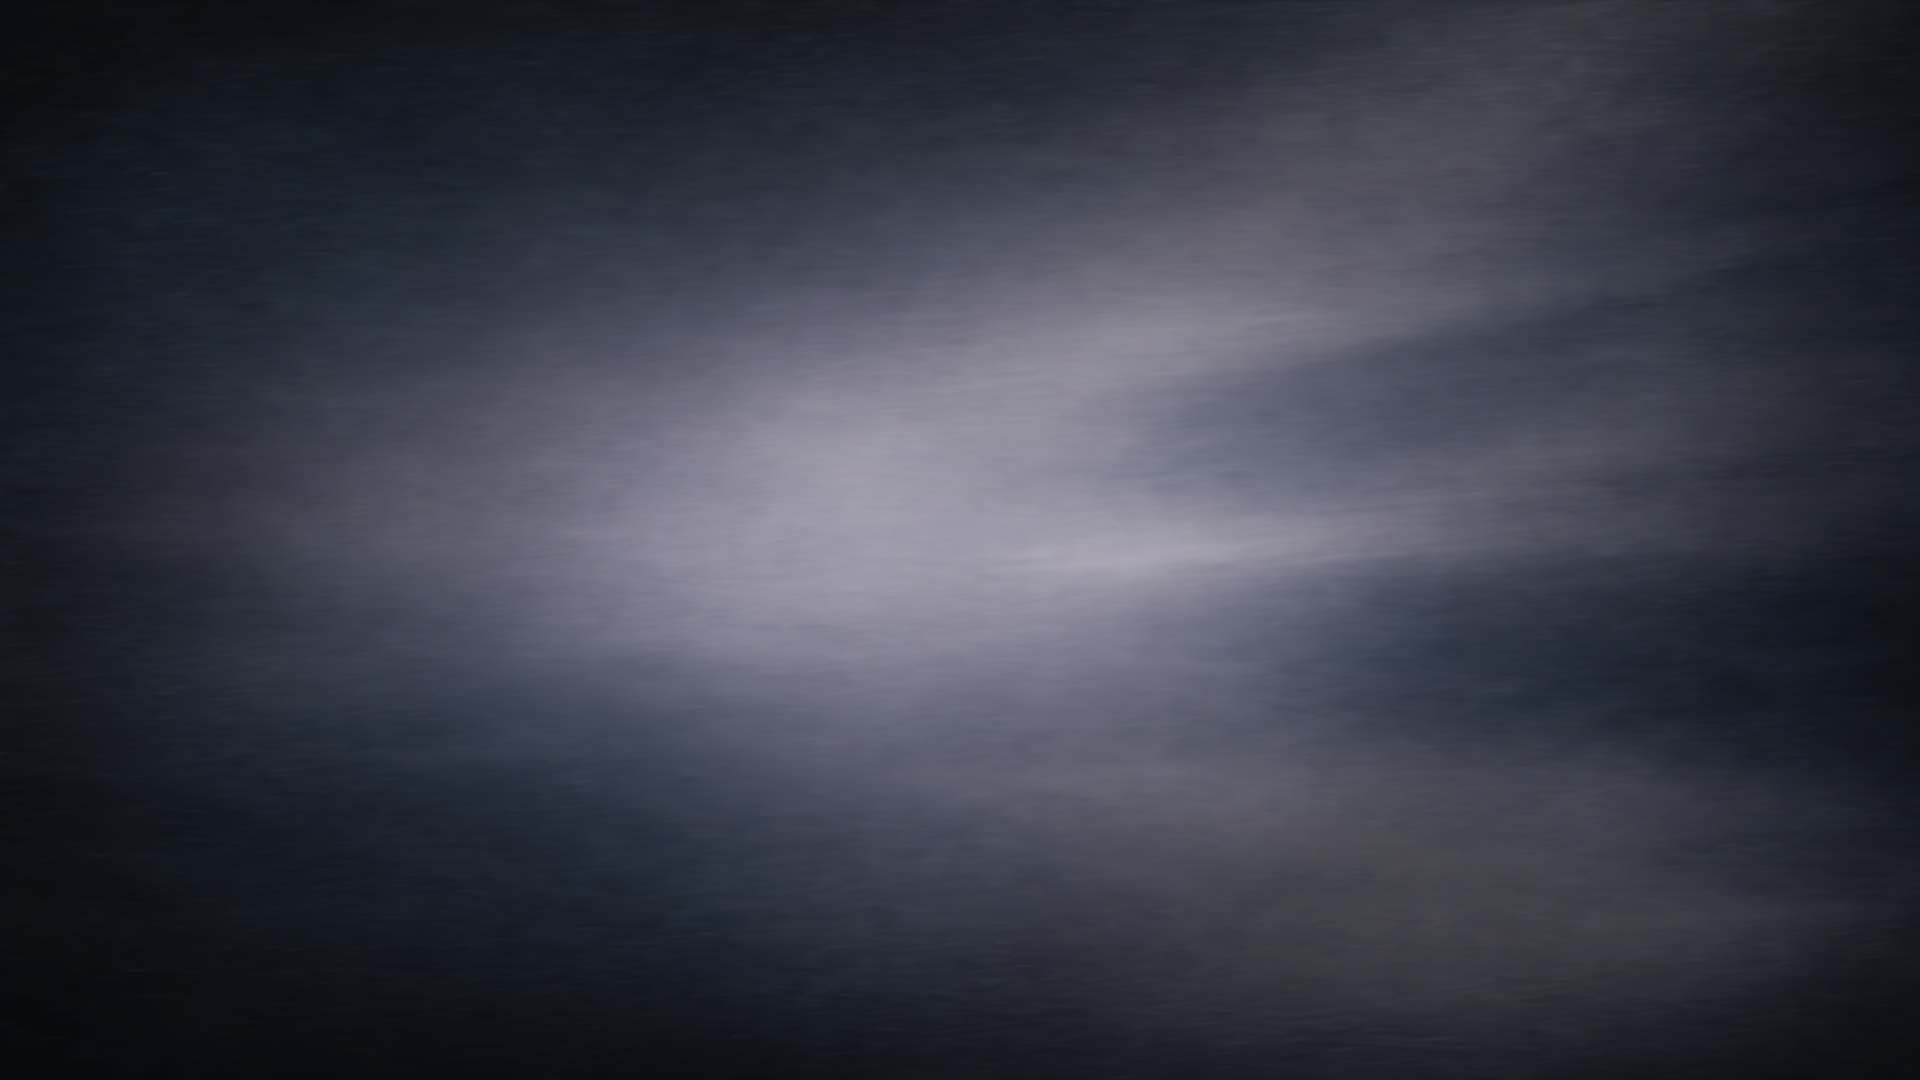
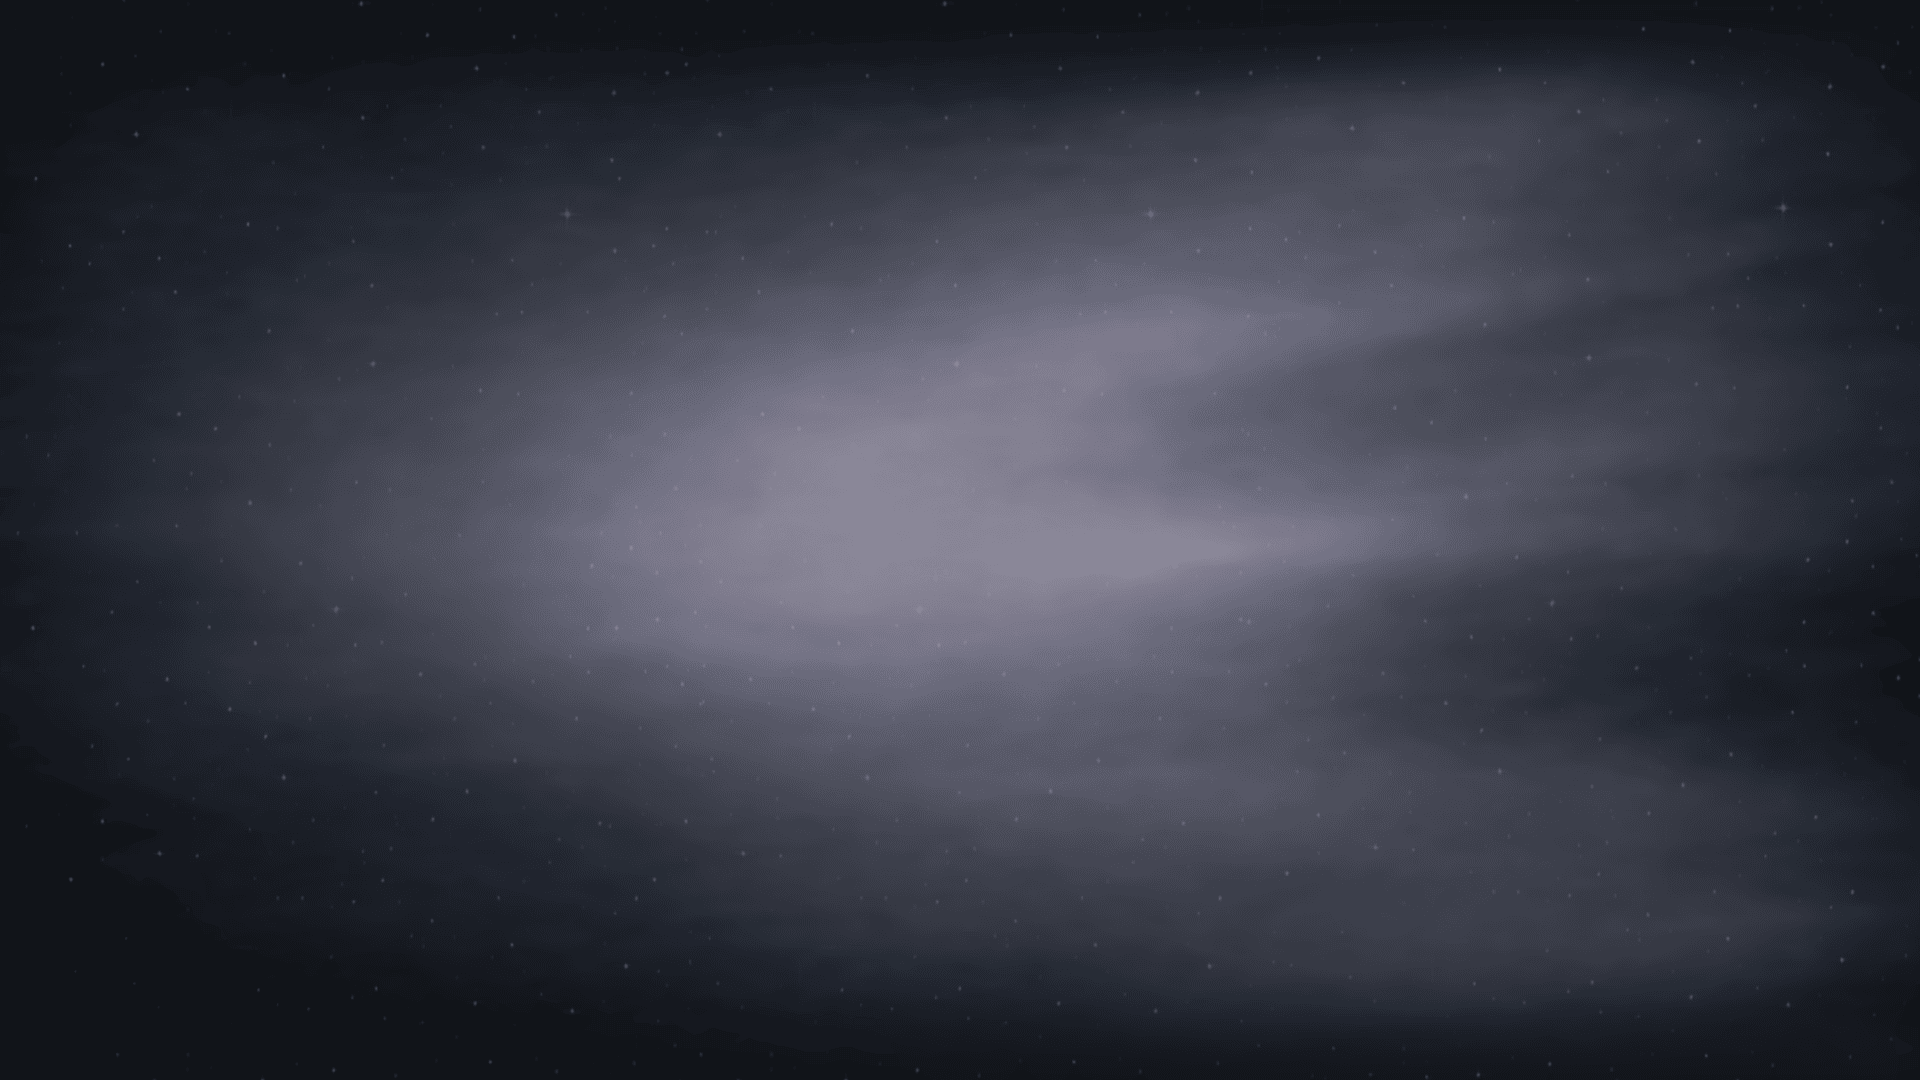
perf and style: optimize and change background

Changed region(s): [[0.625, 0.0, 0.9375, 0.0917], [0.5, 0.4889, 0.625, 0.55]]

diff --git a/src/styles/main.scss b/src/styles/main.scss
@@ -24,9 +24,9 @@ body {
   position: relative;
   min-height: 100vh;
   background-image: url("../assets/images/background_mobile.png");
-  background-repeat: no-repeat;
-  background-size: cover;
-  background-position: center;
+  background-repeat: repeat;
+  background-size: contain;
+  background-position: top;
 
   &::before {
     content: none !important;

diff --git a/src/components/hero/_hero.scss b/src/components/hero/_hero.scss
@@ -44,12 +44,6 @@
         font-size: 0.7em;
       }
     }
-
-    // .graphic {
-    //   @include m.heroText(16px, c.$SmallTextColor);
-    //   letter-spacing: 0.08em;
-    //   padding-bottom: 15px;
-    // }
   }
 
   .slogan_button {
